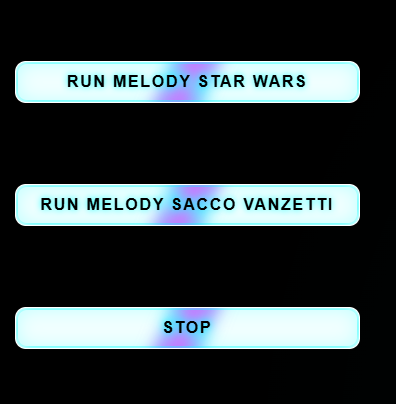
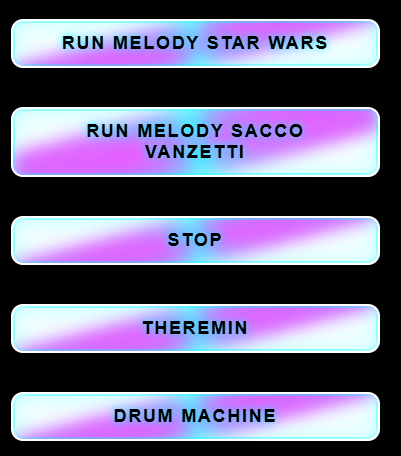
MAJ README FR/EN partie boutons

diff --git a/README.md b/README.md
@@ -282,7 +282,6 @@ Celui-ci nous ouvre une pop-in listant toutes les animations et nous permettant 
 
 Voici une courte vidéo de présentation:
 
-//TODO vidéo demo synthé
 [![Miniature de la vidéo](https://img.youtube.com/vi/amGpBCkkSVQ/hqdefault.jpg)](https://youtu.be/amGpBCkkSVQ)
 
 #### Les mélodies ou l'upload audio
@@ -293,6 +292,10 @@ Les mélodies préprogrammées: il s’agit de séquences musicales simulées, c
 Deux mélodies sont actuellement disponibles:  
 - La Marche impériale (de Star Wars)  
 - La marche de Sacco et Vanzetti
+
+Le bouton **STOP** permet de **tuer tout le contexte Audio** (fonctionne à tout moment)
+
+2 autres boutons ont également été rajoutés, le premier permettant d'ouvrir une popin avec un **Thérémine**, le second permettant d'ouvrir une popin avec une **boîte à rythme**.
 
 
 <div align="center">

diff --git a/README_US.md b/README_US.md
@@ -294,7 +294,6 @@ Clicking this opens a pop-in window displaying the full list of animations. You 
 
 Here is a short presentation video:
 
-//TODO vidéo demo synthé
 [![Miniature de la vidéo](https://img.youtube.com/vi/amGpBCkkSVQ/hqdefault.jpg)](https://youtu.be/amGpBCkkSVQ)
 
 #### The melodies or the audio upload
@@ -305,6 +304,10 @@ Pre-programmed melodies: these are simulated musical sequences, as if a score we
 Two melodies are currently available:  
 - The Imperial March (from Star Wars)  
 - The Sacco and Vanzetti March
+
+The **STOP** button allows you to **kill the entire audio context** (works at any time).
+
+Two other buttons have also been added: the first opens a pop-up with a **Theremin**, and the second opens a pop-up with a **Drum Machine**.
 
 
 <div align="center">
